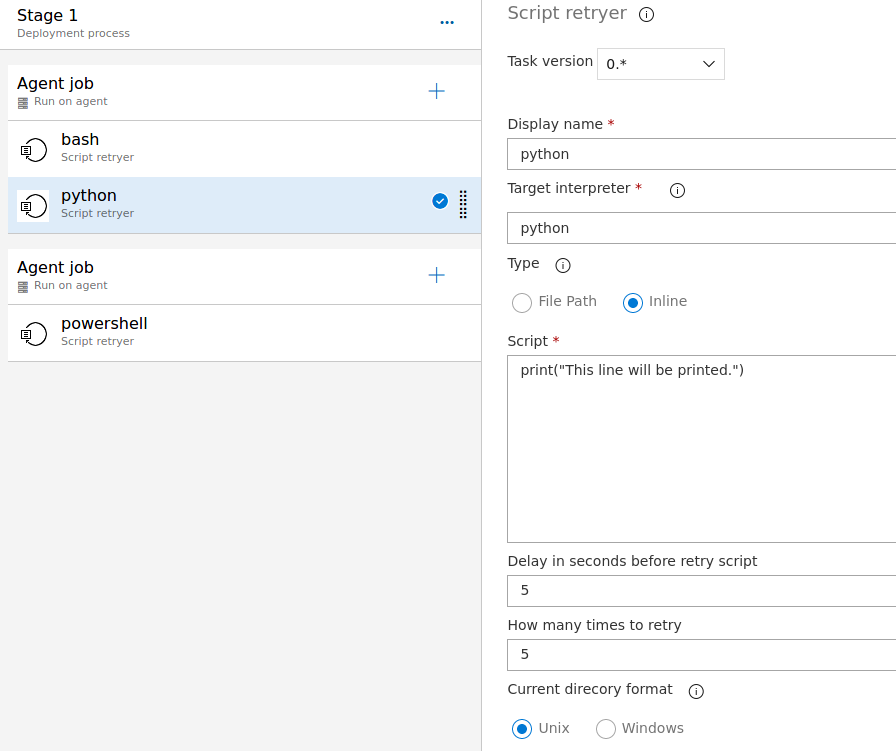
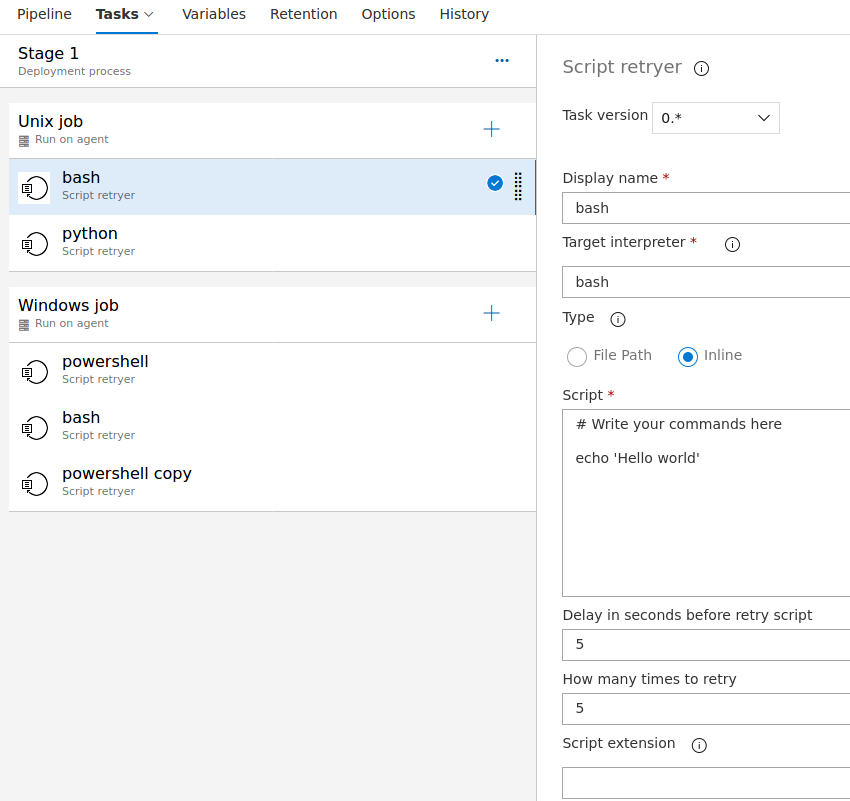
improve doc, remove unnecessary field

diff --git a/overview.md b/overview.md
@@ -1,6 +1,5 @@
 # Azure Devlops Script Retryer
 
-This tasks provides the way to run bash/powershell/python scripts and rerun them in case of failure several times with some delay.
-It can help with some networking issues and make Aure DevOps pipelines and releases more reliable. 
+That task can be used to retry several times with some delay specified script. Script will be rerun only if non-zero exit code will be detected.It could help you when for example you have some network connectivity issues. Inline script supported. Supported languages: bash, powershell, python. It looks for interpereter in PATH variable, so probably more interpreters are supported, but currently that 3 were tested. It works fine on Unix and Windows agents.
 
 For more info please refer to documentation page on [GitHub](https://github.com/ice-ship/script-retryer/)

diff --git a/README.md b/README.md
@@ -1,3 +1,21 @@
-**Visual Definition Example**
+# **Visual Definition Example**
 
 ![visial task definition](./images/example.png)
+
+# Test in practice
+
+```bash
+R=`echo $((1 + RANDOM % 10))`
+echo $R
+if [ $R -gt 5 ]; then
+  exit 1
+fi
+```
+
+## Task configuration:
+
+![visial task definition](./images/rerunExample.png)
+
+## Output example:
+
+![output example](./images/rerunLogsExample.png)
